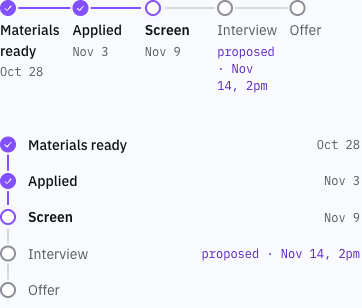
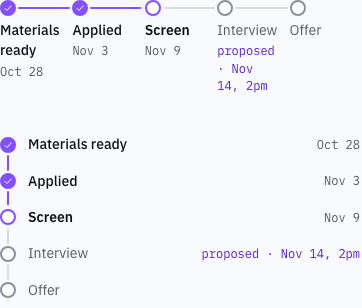
fix(ui): horizontal Stepper keeps its gap between labels
Equal columns could shrink below a label's longest word. In a 362px card
"Materials" and "Interview" (60px) ran 9px into the 12px gap before the
next step. A column now never shrinks below its longest word (the label
counts its min-content). Equal columns are unchanged when there is room.
Stepper screenshots re-shot.

diff --git a/packages/ui/src/styles/stepper.css b/packages/ui/src/styles/stepper.css
@@ -80,10 +80,10 @@
   color: var(--sc-color-accent-text);
 }
 /* horizontal: equal columns, the marker on top, label and meta under it; the connector runs from the marker to the
-   next column's marker. */
+   next column's marker. A column never shrinks below its longest word, so a label can't run into the next step's gap. */
 .sc-stepper[data-orientation='horizontal'] {
   grid-auto-flow: column;
-  grid-auto-columns: minmax(0, 1fr);
+  grid-auto-columns: minmax(min-content, 1fr);
 }
 .sc-stepper[data-orientation='horizontal'] > .sc-stepper__step {
   display: grid;
@@ -98,6 +98,7 @@
   block-size: 2px;
 }
 .sc-stepper[data-orientation='horizontal'] .sc-stepper__label {
+  min-inline-size: min-content;
   margin-block-start: var(--sc-spacing-3xs);
 }
 /* vertical: one row per step, marker | label | meta at the end; the connector runs down to the next marker. */
